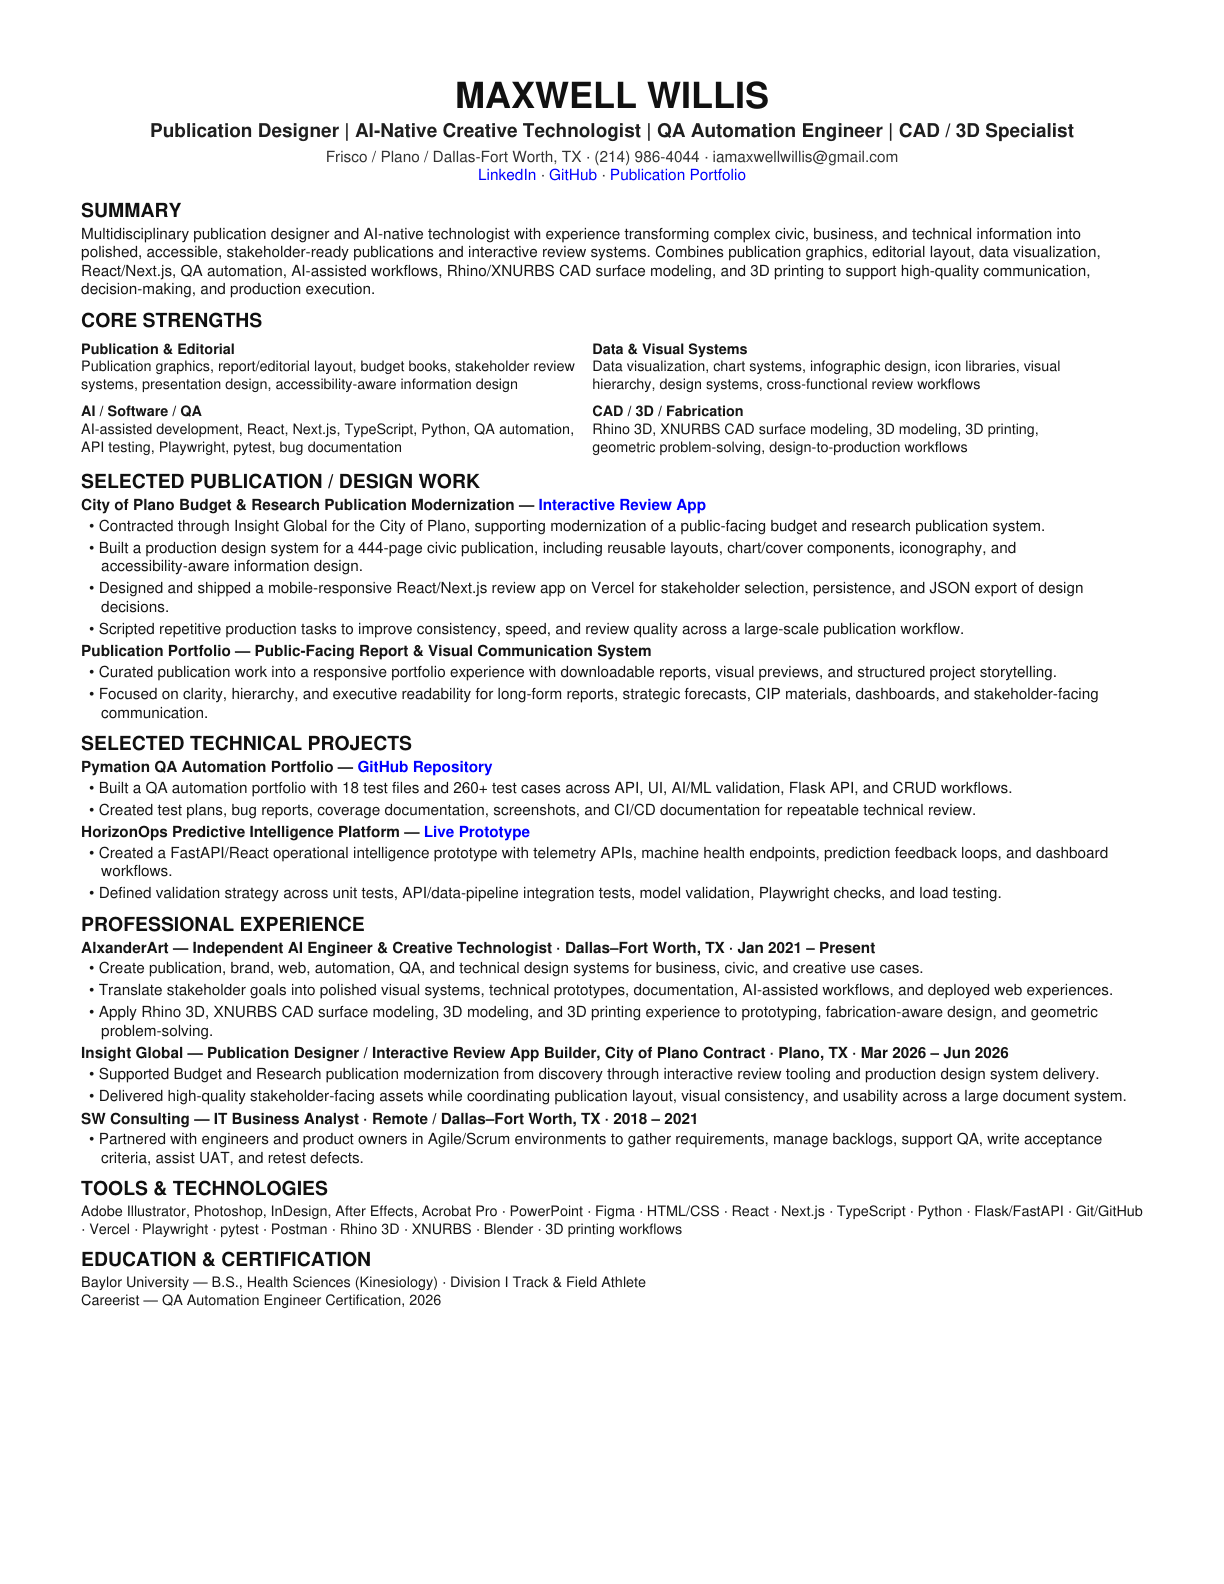
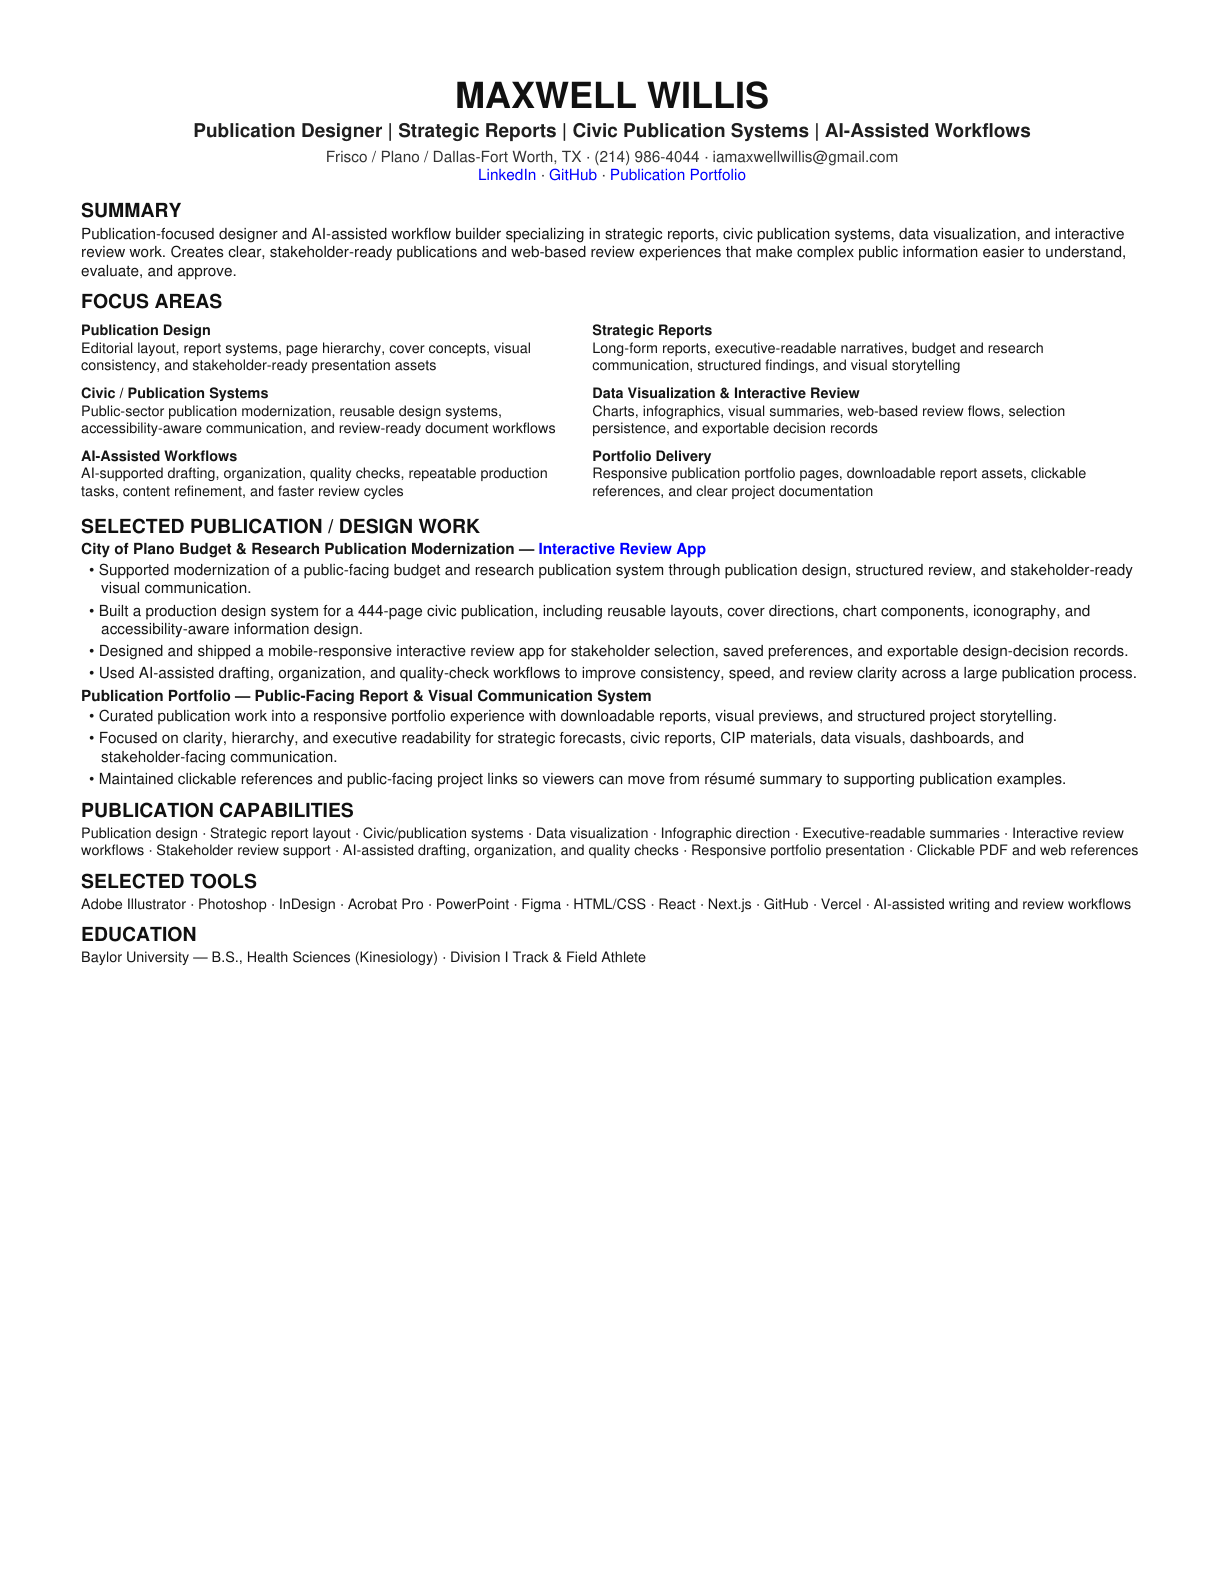
Refine publication resume focus

diff --git a/src/app/resume/page.tsx b/src/app/resume/page.tsx
@@ -67,10 +67,11 @@ export default function ResumePage() {
         </div>
 
         <p className="mb-6 max-w-2xl text-sm leading-relaxed text-[var(--muted)]">
-          Updated publication resume focused on publication design, AI-native
-          creative technology, QA automation, and CAD/3D skills. The PDF above
-          includes clickable links for LinkedIn, GitHub, portfolio, and selected
-          project references.
+          Updated publication resume focused only on publication design,
+          strategic reports, civic/publication systems, data visualization,
+          interactive review work, and AI-assisted workflows. The PDF above
+          includes clickable links for LinkedIn, GitHub, portfolio, and the
+          interactive review app reference.
         </p>
 
         {/* Resume preview image for reliable website display and screenshot thumbnails. */}
@@ -87,6 +88,7 @@ export default function ResumePage() {
             width={1224}
             height={1584}
             priority
+            unoptimized
             className="mx-auto h-auto w-full max-w-3xl rounded-2xl bg-white"
           />
         </a>

diff --git a/scripts/generate-publication-resume.py b/scripts/generate-publication-resume.py
@@ -14,8 +14,6 @@ LINKEDIN = "https://linkedin.com/in/iammaxwellwillis"
 GITHUB = "https://github.com/AlxanderArt"
 PORTFOLIO = "https://publication-portfolio.vercel.app"
 PLANO_REVIEW = "https://plano-design-review.vercel.app"
-HORIZONOPS = "https://horizonops-predictive-intelligence.vercel.app"
-PYMATION = "https://github.com/AlxanderArt/Pymation"
 
 styles = getSampleStyleSheet()
 styles.add(ParagraphStyle(
@@ -99,9 +97,10 @@ def P(text: str, style="Body"):
 def bullet(text: str):
     return Paragraph("• " + text, styles["ResumeBullet"])
 
+
 story = []
 story.append(P("MAXWELL WILLIS", "Name"))
-story.append(P("Publication Designer | AI-Native Creative Technologist | QA Automation Engineer | CAD / 3D Specialist", "Role"))
+story.append(P("Publication Designer | Strategic Reports | Civic Publication Systems | AI-Assisted Workflows", "Role"))
 story.append(P(
     f"Frisco / Plano / Dallas-Fort Worth, TX · (214) 986-4044 · iamaxwellwillis@gmail.com<br/>"
     f"<a href='{LINKEDIN}' color='blue'>LinkedIn</a> · "
@@ -112,17 +111,19 @@ story.append(P(
 
 story.append(P("SUMMARY", "Section"))
 story.append(P(
-    "Multidisciplinary publication designer and AI-native technologist with experience transforming complex civic, business, and technical information into polished, accessible, stakeholder-ready publications and interactive review systems. Combines publication graphics, editorial layout, data visualization, React/Next.js, QA automation, AI-assisted workflows, Rhino/XNURBS CAD surface modeling, and 3D printing to support high-quality communication, decision-making, and production execution."
+    "Publication-focused designer and AI-assisted workflow builder specializing in strategic reports, civic publication systems, data visualization, and interactive review work. Creates clear, stakeholder-ready publications and web-based review experiences that make complex public information easier to understand, evaluate, and approve."
 ))
 
-story.append(P("CORE STRENGTHS", "Section"))
-skills = [
-    [P("<b>Publication & Editorial</b><br/>Publication graphics, report/editorial layout, budget books, stakeholder review systems, presentation design, accessibility-aware information design", "Small"),
-     P("<b>Data & Visual Systems</b><br/>Data visualization, chart systems, infographic design, icon libraries, visual hierarchy, design systems, cross-functional review workflows", "Small")],
-    [P("<b>AI / Software / QA</b><br/>AI-assisted development, React, Next.js, TypeScript, Python, QA automation, API testing, Playwright, pytest, bug documentation", "Small"),
-     P("<b>CAD / 3D / Fabrication</b><br/>Rhino 3D, XNURBS CAD surface modeling, 3D modeling, 3D printing, geometric problem-solving, design-to-production workflows", "Small")],
+story.append(P("FOCUS AREAS", "Section"))
+focus = [
+    [P("<b>Publication Design</b><br/>Editorial layout, report systems, page hierarchy, cover concepts, visual consistency, and stakeholder-ready presentation assets", "Small"),
+     P("<b>Strategic Reports</b><br/>Long-form reports, executive-readable narratives, budget and research communication, structured findings, and visual storytelling", "Small")],
+    [P("<b>Civic / Publication Systems</b><br/>Public-sector publication modernization, reusable design systems, accessibility-aware communication, and review-ready document workflows", "Small"),
+     P("<b>Data Visualization & Interactive Review</b><br/>Charts, infographics, visual summaries, web-based review flows, selection persistence, and exportable decision records", "Small")],
+    [P("<b>AI-Assisted Workflows</b><br/>AI-supported drafting, organization, quality checks, repeatable production tasks, content refinement, and faster review cycles", "Small"),
+     P("<b>Portfolio Delivery</b><br/>Responsive publication portfolio pages, downloadable report assets, clickable references, and clear project documentation", "Small")],
 ]
-table = Table(skills, colWidths=[3.55*inch, 3.55*inch], hAlign="LEFT")
+table = Table(focus, colWidths=[3.55*inch, 3.55*inch], hAlign="LEFT")
 table.setStyle(TableStyle([
     ("VALIGN", (0, 0), (-1, -1), "TOP"),
     ("LEFTPADDING", (0, 0), (-1, -1), 0),
@@ -133,45 +134,30 @@ story.append(table)
 
 story.append(P("SELECTED PUBLICATION / DESIGN WORK", "Section"))
 story.append(P(f"City of Plano Budget & Research Publication Modernization — <a href='{PLANO_REVIEW}' color='blue'>Interactive Review App</a>", "ItemHead"))
-story.append(bullet("Contracted through Insight Global for the City of Plano, supporting modernization of a public-facing budget and research publication system."))
-story.append(bullet("Built a production design system for a 444-page civic publication, including reusable layouts, chart/cover components, iconography, and accessibility-aware information design."))
-story.append(bullet("Designed and shipped a mobile-responsive React/Next.js review app on Vercel for stakeholder selection, persistence, and JSON export of design decisions."))
-story.append(bullet("Scripted repetitive production tasks to improve consistency, speed, and review quality across a large-scale publication workflow."))
+story.append(bullet("Supported modernization of a public-facing budget and research publication system through publication design, structured review, and stakeholder-ready visual communication."))
+story.append(bullet("Built a production design system for a 444-page civic publication, including reusable layouts, cover directions, chart components, iconography, and accessibility-aware information design."))
+story.append(bullet("Designed and shipped a mobile-responsive interactive review app for stakeholder selection, saved preferences, and exportable design-decision records."))
+story.append(bullet("Used AI-assisted drafting, organization, and quality-check workflows to improve consistency, speed, and review clarity across a large publication process."))
 
 story.append(P("Publication Portfolio — Public-Facing Report & Visual Communication System", "ItemHead"))
 story.append(bullet("Curated publication work into a responsive portfolio experience with downloadable reports, visual previews, and structured project storytelling."))
-story.append(bullet("Focused on clarity, hierarchy, and executive readability for long-form reports, strategic forecasts, CIP materials, dashboards, and stakeholder-facing communication."))
+story.append(bullet("Focused on clarity, hierarchy, and executive readability for strategic forecasts, civic reports, CIP materials, data visuals, dashboards, and stakeholder-facing communication."))
+story.append(bullet("Maintained clickable references and public-facing project links so viewers can move from résumé summary to supporting publication examples."))
 
-story.append(P("SELECTED TECHNICAL PROJECTS", "Section"))
-story.append(P(f"Pymation QA Automation Portfolio — <a href='{PYMATION}' color='blue'>GitHub Repository</a>", "ItemHead"))
-story.append(bullet("Built a QA automation portfolio with 18 test files and 260+ test cases across API, UI, AI/ML validation, Flask API, and CRUD workflows."))
-story.append(bullet("Created test plans, bug reports, coverage documentation, screenshots, and CI/CD documentation for repeatable technical review."))
-
-story.append(P(f"HorizonOps Predictive Intelligence Platform — <a href='{HORIZONOPS}' color='blue'>Live Prototype</a>", "ItemHead"))
-story.append(bullet("Created a FastAPI/React operational intelligence prototype with telemetry APIs, machine health endpoints, prediction feedback loops, and dashboard workflows."))
-story.append(bullet("Defined validation strategy across unit tests, API/data-pipeline integration tests, model validation, Playwright checks, and load testing."))
-
-story.append(P("PROFESSIONAL EXPERIENCE", "Section"))
-story.append(P("AlxanderArt — Independent AI Engineer & Creative Technologist · Dallas–Fort Worth, TX · Jan 2021 – Present", "ItemHead"))
-story.append(bullet("Create publication, brand, web, automation, QA, and technical design systems for business, civic, and creative use cases."))
-story.append(bullet("Translate stakeholder goals into polished visual systems, technical prototypes, documentation, AI-assisted workflows, and deployed web experiences."))
-story.append(bullet("Apply Rhino 3D, XNURBS CAD surface modeling, 3D modeling, and 3D printing experience to prototyping, fabrication-aware design, and geometric problem-solving."))
-
-story.append(P("Insight Global — Publication Designer / Interactive Review App Builder, City of Plano Contract · Plano, TX · Mar 2026 – Jun 2026", "ItemHead"))
-story.append(bullet("Supported Budget and Research publication modernization from discovery through interactive review tooling and production design system delivery."))
-story.append(bullet("Delivered high-quality stakeholder-facing assets while coordinating publication layout, visual consistency, and usability across a large document system."))
-
-story.append(P("SW Consulting — IT Business Analyst · Remote / Dallas–Fort Worth, TX · 2018 – 2021", "ItemHead"))
-story.append(bullet("Partnered with engineers and product owners in Agile/Scrum environments to gather requirements, manage backlogs, support QA, write acceptance criteria, assist UAT, and retest defects."))
-
-story.append(P("TOOLS & TECHNOLOGIES", "Section"))
+story.append(P("PUBLICATION CAPABILITIES", "Section"))
 story.append(P(
-    "Adobe Illustrator, Photoshop, InDesign, After Effects, Acrobat Pro · PowerPoint · Figma · HTML/CSS · React · Next.js · TypeScript · Python · Flask/FastAPI · Git/GitHub · Vercel · Playwright · pytest · Postman · Rhino 3D · XNURBS · Blender · 3D printing workflows",
+    "Publication design · Strategic report layout · Civic/publication systems · Data visualization · Infographic direction · Executive-readable summaries · Interactive review workflows · Stakeholder review support · AI-assisted drafting, organization, and quality checks · Responsive portfolio presentation · Clickable PDF and web references",
     "Small",
 ))
 
-story.append(P("EDUCATION & CERTIFICATION", "Section"))
-story.append(P("Baylor University — B.S., Health Sciences (Kinesiology) · Division I Track & Field Athlete<br/>Careerist — QA Automation Engineer Certification, 2026", "Small"))
+story.append(P("SELECTED TOOLS", "Section"))
+story.append(P(
+    "Adobe Illustrator · Photoshop · InDesign · Acrobat Pro · PowerPoint · Figma · HTML/CSS · React · Next.js · GitHub · Vercel · AI-assisted writing and review workflows",
+    "Small",
+))
+
+story.append(P("EDUCATION", "Section"))
+story.append(P("Baylor University — B.S., Health Sciences (Kinesiology) · Division I Track & Field Athlete", "Small"))
 
 pdf = SimpleDocTemplate(str(OUT), pagesize=letter, rightMargin=0.48*inch, leftMargin=0.48*inch, topMargin=0.42*inch, bottomMargin=0.42*inch)
 pdf.build(story)
